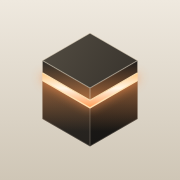
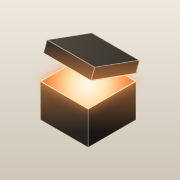
Swing the Magic box lid open and tidy the Studio brand
At 16-22 px the level lid's 1-pixel gap vanished, so the mark read as a
dark cube with a gold band. The floating lid now swings open 20 degrees
on its back edge and the lit inside shows at every size.

- Favicon box fills about 80% of its tile; PNG icons regenerated
- Dark header uses the same graphite with a 1 px non-scaling outline
  instead of the lifted finish that turned bronze
- The logo is a plain image named "Magic CAD", not a link to "#"
- "Magic CAD" is the name in the tab title, logo label and footer
- DESIGN.md records why the lid must stay open

diff --git a/studio-app/src/Brand.tsx b/studio-app/src/Brand.tsx
@@ -1,61 +1,64 @@
 import { useId } from 'react';
 
 // The Magic CAD brand (owner-approved, 7 November 2026). Static copies live in public/brand/.
-// Mark: the Magic box, a graphite box in true isometric (30° edges) whose lid floats just above the
-// base, with warm light spilling out of the gap. The glow is the brand's one non-action use of orange.
+// Mark: the Magic box, a graphite box in true isometric (30° edges). Its lid floats above the base and
+// swings open 20° on its back edge, so the lit inside shows: a box opening, never a cube with a band.
+// The glow is the brand's one non-action use of orange.
 
 export type BrandSurface = 'light' | 'dark';
 
 const BASE_LEFT = 'M29.36 59 64 79v28L29.36 87Z';
 const BASE_RIGHT = 'M64 79l34.64-20v28L64 107Z';
-const GAP = 'M29.36 53.4 64 73.4l34.64-20v5.6L64 79 29.36 59Z';
-const LID_LEFT = 'M29.36 44.6 64 64.6v8.8L29.36 53.4Z';
-const LID_RIGHT = 'M64 64.6l34.64-20v8.8L64 73.4Z';
-const LID_TOP = 'M64 24.6l34.64 20L64 64.6 29.36 44.6Z';
-// Edges: the lid's top silhouette, its front edges, the two edges lit by the gap, and the base outline.
-const RIM_TOP = 'M29.36 44.6 64 24.6l34.64 20';
-const RIM_LID = 'M29.36 44.6 64 64.6l34.64-20M64 64.6v8.8M29.36 44.6v8.8M98.64 44.6v8.8';
-const RIM_GLOW = 'M29.36 53.4 64 73.4l34.64-20M29.36 59 64 79l34.64-20';
+// The base's open top, full of light; the lid hides its back half.
+const OPENING = 'M64 39l34.64 20L64 79 29.36 59Z';
+const LID_LEFT = 'M34.06 28.74 68.7 48.74 66.09 58.51 31.45 38.51Z';
+const LID_RIGHT = 'M68.7 48.74 101.25 43.63 98.64 53.4 66.09 58.51Z';
+const LID_TOP = 'M66.61 23.63 101.25 43.63 68.7 48.74 34.06 28.74Z';
+// Edges: the lid's silhouette, its front edges, the rims lit from inside, and the base outline.
+const RIM_TOP = 'M34.06 28.74 66.61 23.63 101.25 43.63';
+const RIM_LID = 'M34.06 28.74 68.7 48.74 101.25 43.63M68.7 48.74 66.09 58.51M34.06 28.74 31.45 38.51M101.25 43.63 98.64 53.4';
+const RIM_INSIDE = 'M29.36 59 64 39l34.64 20';
+const RIM_GLOW = 'M31.45 38.51 66.09 58.51 98.64 53.4M29.36 59 64 79l34.64-20';
 const RIM_BASE = 'M29.36 59v28l34.64 20 34.64-20V59M64 79v28';
+const GRAPHITE = { top: ['#4f493f', '#3b362f'], left: ['#312d27', '#25221e'], right: ['#221f1c', '#171614'] };
 
-type Finish = { top: [string, string]; left: [string, string]; right: [string, string]; rim: string; rimTop: [number, number]; rimLid: [number, number]; rimBase: [number, number]; glow: number };
-// Light surfaces show the graphite box as approved. Dark surfaces lift the graphite and brighten the
-// rims so the outline still holds against the graphite header. Each rim is [opacity, width].
-const FINISH: Record<BrandSurface, Finish> = {
-  light: { top: ['#4f493f', '#3b362f'], left: ['#312d27', '#25221e'], right: ['#221f1c', '#171614'], rim: '#f3e7d3', rimTop: [.6, .9], rimLid: [.38, .85], rimBase: [.2, .9], glow: .9 },
-  dark: { top: ['#6a6256', '#524b41'], left: ['#433d35', '#36312b'], right: ['#312c27', '#26231f'], rim: '#f6ecdc', rimTop: [.85, 1], rimLid: [.55, .9], rimBase: [.38, .9], glow: .95 },
-};
-
-/** The Magic box. Decorative: the surrounding link or heading carries the accessible name. */
+/** The Magic box. Decorative: the element around it carries the accessible name.
+ *  On dark surfaces a 1 px pearl outline (it does not scale with the mark) keeps the graphite box
+ *  readable without lightening it; on light surfaces the box's own contrast carries it. */
 export function BrandMark({ surface, className }: { surface: BrandSurface; className?: string }) {
   const id = useId().replace(/[^\w-]/g, '');
-  const f = FINISH[surface];
   const url = (part: string) => `url(#${id}-${part})`;
-  return <svg className={className} viewBox="19 21 90 90" data-surface={surface} aria-hidden="true" focusable="false">
+  return <svg className={className} viewBox="20.3 20.3 90 90" data-surface={surface} aria-hidden="true" focusable="false">
     <defs>
-      <linearGradient id={`${id}-top`} x1="40" y1="30" x2="88" y2="60" gradientUnits="userSpaceOnUse"><stop stopColor={f.top[0]}/><stop offset="1" stopColor={f.top[1]}/></linearGradient>
-      <linearGradient id={`${id}-left`} x1="0" y1="46" x2="0" y2="106" gradientUnits="userSpaceOnUse"><stop stopColor={f.left[0]}/><stop offset="1" stopColor={f.left[1]}/></linearGradient>
-      <linearGradient id={`${id}-right`} x1="0" y1="46" x2="0" y2="106" gradientUnits="userSpaceOnUse"><stop stopColor={f.right[0]}/><stop offset="1" stopColor={f.right[1]}/></linearGradient>
-      <linearGradient id={`${id}-gap`} x1="0" y1="53" x2="0" y2="79" gradientUnits="userSpaceOnUse"><stop stopColor="#ffc47c"/><stop offset=".45" stopColor="#fff6e6"/><stop offset="1" stopColor="#ff9a52"/></linearGradient>
-      <linearGradient id={`${id}-lid-spill`} x1="0" y1="73" x2="0" y2="46" gradientUnits="userSpaceOnUse"><stop stopColor="#ff9a52" stopOpacity=".6"/><stop offset="1" stopColor="#ff9a52" stopOpacity="0"/></linearGradient>
+      <linearGradient id={`${id}-top`} x1="40" y1="26" x2="94" y2="48" gradientUnits="userSpaceOnUse"><stop stopColor={GRAPHITE.top[0]}/><stop offset="1" stopColor={GRAPHITE.top[1]}/></linearGradient>
+      <linearGradient id={`${id}-left`} x1="0" y1="30" x2="0" y2="106" gradientUnits="userSpaceOnUse"><stop stopColor={GRAPHITE.left[0]}/><stop offset="1" stopColor={GRAPHITE.left[1]}/></linearGradient>
+      <linearGradient id={`${id}-right`} x1="0" y1="30" x2="0" y2="106" gradientUnits="userSpaceOnUse"><stop stopColor={GRAPHITE.right[0]}/><stop offset="1" stopColor={GRAPHITE.right[1]}/></linearGradient>
+      <radialGradient id={`${id}-light`} cx="64" cy="61" r="30" gradientUnits="userSpaceOnUse"><stop stopColor="#fffaf1"/><stop offset=".45" stopColor="#ffe2b0"/><stop offset=".85" stopColor="#ffa25a"/><stop offset="1" stopColor="#f08a48"/></radialGradient>
+      <linearGradient id={`${id}-lid-spill`} x1="0" y1="58" x2="0" y2="30" gradientUnits="userSpaceOnUse"><stop stopColor="#ff9a52" stopOpacity=".6"/><stop offset="1" stopColor="#ff9a52" stopOpacity="0"/></linearGradient>
       <linearGradient id={`${id}-base-spill`} x1="0" y1="59" x2="0" y2="96" gradientUnits="userSpaceOnUse"><stop stopColor="#ff9a52" stopOpacity=".5"/><stop offset="1" stopColor="#ff9a52" stopOpacity="0"/></linearGradient>
-      <filter id={`${id}-bloom`} x="-.5" y="-1.5" width="2" height="4"><feGaussianBlur stdDeviation="4"/></filter>
+      <filter id={`${id}-bloom`} x="-.5" y="-.5" width="2" height="2"><feGaussianBlur stdDeviation="4"/></filter>
     </defs>
     <path d={BASE_LEFT} fill={url('left')}/>
     <path d={BASE_RIGHT} fill={url('right')}/>
     <path d={BASE_LEFT + BASE_RIGHT} fill={url('base-spill')}/>
-    <path d={GAP} fill="#ff9450" filter={url('bloom')} opacity=".9"/>
-    <path d={GAP} fill={url('gap')}/>
+    <path d={OPENING} fill="#ff9450" filter={url('bloom')} opacity=".9"/>
+    <path d={OPENING} fill={url('light')}/>
+    <path d={RIM_INSIDE} fill="none" stroke="#ffe3b5" strokeOpacity=".9" strokeWidth=".9" strokeLinejoin="round"/>
     <path d={LID_LEFT} fill={url('left')}/>
     <path d={LID_RIGHT} fill={url('right')}/>
     <path d={LID_LEFT + LID_RIGHT} fill={url('lid-spill')}/>
     <path d={LID_TOP} fill={url('top')}/>
-    <g fill="none" strokeLinejoin="round">
-      <path d={RIM_TOP} stroke={f.rim} strokeOpacity={f.rimTop[0]} strokeWidth={f.rimTop[1]}/>
-      <path d={RIM_LID} stroke={f.rim} strokeOpacity={f.rimLid[0]} strokeWidth={f.rimLid[1]}/>
-      <path d={RIM_GLOW} stroke="#ffe3b5" strokeOpacity={f.glow} strokeWidth=".9"/>
-      <path d={RIM_BASE} stroke={f.rim} strokeOpacity={f.rimBase[0]} strokeWidth={f.rimBase[1]}/>
-    </g>
+    {surface === 'dark'
+      ? <g fill="none" stroke="#f6ecdc" strokeWidth="1" strokeLinejoin="round">
+          <path d={RIM_TOP + RIM_BASE} strokeOpacity=".5" vectorEffect="non-scaling-stroke"/>
+          <path d={RIM_LID} strokeOpacity=".3" vectorEffect="non-scaling-stroke"/>
+        </g>
+      : <g fill="none" stroke="#f3e7d3" strokeLinejoin="round">
+          <path d={RIM_TOP} strokeOpacity=".6" strokeWidth=".9"/>
+          <path d={RIM_LID} strokeOpacity=".38" strokeWidth=".85"/>
+          <path d={RIM_BASE} strokeOpacity=".2" strokeWidth=".9"/>
+        </g>}
+    <path d={RIM_GLOW} fill="none" stroke="#ffe3b5" strokeOpacity=".9" strokeWidth=".9" strokeLinejoin="round"/>
   </svg>;
 }
 

diff --git a/studio-app/src/main.tsx b/studio-app/src/main.tsx
@@ -241,7 +241,7 @@ function App() {
   const focusComposerSoon = () => requestAnimationFrame(() => document.getElementById('request')?.focus());
   return <main className={`app desk${dark ? ' dark' : ''}`} style={{ '--column': `${column}px` } as React.CSSProperties}>
     <header className="app-header">
-      <a className="brand" href="#" aria-label="Magic CAD Studio"><BrandMark className="brand-mark" surface={dark ? 'dark' : 'light'}/><Wordmark className="brand-wordmark"/></a>
+      <span className="brand" role="img" aria-label="Magic CAD"><BrandMark className="brand-mark" surface={dark ? 'dark' : 'light'}/><Wordmark className="brand-wordmark"/></span>
       {project ? <details className="project-switch"><summary title={project}>{projectName}</summary><form className="project-open compact" noValidate onSubmit={e => { open(e); (e.currentTarget.closest('details') as HTMLDetailsElement | null)?.removeAttribute('open'); }}><label htmlFor="folder">Project folder</label><div className="open-field"><input id="folder" value={folder} onChange={e => { setFolder(e.target.value); setFolderHint(false); }} placeholder="/path/to/project" aria-describedby={folderHint ? 'folder-hint' : undefined} aria-invalid={folderHint || undefined} autoComplete="off" spellCheck={false}/><button className="open-button" aria-label="Open project" disabled={proposalBusy || opening}>{opening ? 'Opening…' : 'Open'}<Icon name="arrow"/></button></div>{folderHint && <p id="folder-hint" className="field-hint">Enter the folder that holds your project.</p>}</form></details> : <span className="project-name">No project open</span>}
       <nav className="mode-nav" aria-label="Workspace modes">{(['Make', 'Studio', 'Mission Control'] as Mode[]).map(name => <button type="button" key={name} aria-current={mode === name ? 'page' : undefined} onClick={() => setMode(name)}>{name}</button>)}</nav>
       <span className="save-state">{proposalBusy ? 'Working…' : project ? 'Saved locally' : 'Local studio'}</span>
@@ -338,7 +338,7 @@ function App() {
       </aside>
     </section>
     {mode !== 'Studio' && <section className={mode === 'Mission Control' ? 'expert' : 'make-mode'}><h1>{mode}</h1>{!selected ? <p>Open a project in Studio to get started.</p> : <><p className="version-context">{project} · Version {selected.number}</p>{mode === 'Make' ? <p>Make is not available yet. Return to Studio to inspect your project and its versions.</p> : <>{detailsError && <p role="alert">Could not load this version: {detailsError}</p>}{!details && !detailsError && <p role="status">Loading version details…</p>}{details && <><section><h2>Brief card</h2>{details.briefs.length ? details.briefs.map(file => <div key={file.name}><h3>{file.name}</h3><pre>{file.content}</pre></div>) : <p>No brief card was saved with this version.</p>}</section><section><h2>Gate report</h2>{details.report ? details.report.designs.map(design => <div key={design.design}><h3>{design.design}</h3><ul className="gate-list">{design.gates.map(gate => <li key={gate.name}><strong>{gate.name}</strong><span><i aria-hidden="true" className={`mark ${gate.status === 'PASS' ? 'pass' : gate.status === 'FAIL' || gate.status === 'ERROR' ? 'fail' : 'pending'}`} />{gate.status}</span><p>{gate.detail}</p></li>)}</ul><details><summary>Full report</summary><pre>{JSON.stringify(details.report, null, 2)}</pre></details></div>) : <p>No gate report is saved for this version.</p>}</section><section><h2>Design code</h2>{details.designs.map(file => <div key={file.name}><h3>{file.name.split('/').pop()}</h3><pre><code>{file.content}</code></pre></div>)}</section></>}<PartsList project={project}/><Catalogue project={project}/></>}</>}</section>}
-    <footer className="app-status"><span>{project ? 'Engine connected' : 'Ready to open a project'}</span><span>{proposal ? 'Reviewing proposed change' : selected ? `Version ${selected.number} · ${shownModels.length} bodies` : 'Magic CAD Studio'}</span><span>mm · Local workspace</span></footer>
+    <footer className="app-status"><span>{project ? 'Engine connected' : 'Ready to open a project'}</span><span>{proposal ? 'Reviewing proposed change' : selected ? `Version ${selected.number} · ${shownModels.length} bodies` : 'Magic CAD'}</span><span>mm · Local workspace</span></footer>
   </main>;
 }
 createRoot(document.getElementById('root')!).render(<App/>);

diff --git a/studio-app/index.html b/studio-app/index.html
@@ -1,1 +1,1 @@
-<!doctype html><html lang="en"><head><meta charset="UTF-8"><meta name="viewport" content="width=device-width, initial-scale=1"><title>Magic CAD Studio</title><link rel="icon" href="/favicon-32.png" sizes="32x32" type="image/png"><link rel="icon" href="/favicon.svg" type="image/svg+xml"><link rel="apple-touch-icon" href="/apple-touch-icon.png"></head><body><div id="root"></div><script type="module" src="/src/main.tsx"></script></body></html>
+<!doctype html><html lang="en"><head><meta charset="UTF-8"><meta name="viewport" content="width=device-width, initial-scale=1"><title>Magic CAD</title><link rel="icon" href="/favicon-32.png" sizes="32x32" type="image/png"><link rel="icon" href="/favicon.svg" type="image/svg+xml"><link rel="apple-touch-icon" href="/apple-touch-icon.png"></head><body><div id="root"></div><script type="module" src="/src/main.tsx"></script></body></html>

diff --git a/studio-app/tests/studio.spec.ts b/studio-app/tests/studio.spec.ts
@@ -293,7 +293,10 @@ test('Watermelon-adapted command search runs real Studio actions', async ({ page
 
 test('the header shows the Magic box brand and the favicon is served', async ({ page, request }) => {
   await page.goto('/');
-  const brand = page.getByRole('link', {name:'Magic CAD Studio'});
+  await expect(page).toHaveTitle('Magic CAD');
+  // The logo is a plain image named "Magic CAD": nothing to click, and not a Tab stop.
+  const brand = page.getByRole('img', {name:'Magic CAD', exact:true});
+  await expect(page.getByRole('link', {name:/Magic CAD/})).toHaveCount(0);
   const mark = brand.locator('svg.brand-mark'), wordmark = brand.locator('svg.brand-wordmark');
   await expect(mark).toBeVisible();
   await expect(wordmark).toBeVisible();

diff --git a/studio-app/DESIGN.md b/studio-app/DESIGN.md
@@ -106,13 +106,17 @@ as "keep unchanged"). Measurements appear as a dimension on the model; clicking 
 typing a new value writes the request. The composer only shows what is attached (chips).
 
 November 7 brand (owner): the mark is the Magic box, a graphite box in true isometric (30° edges)
-whose lid floats just above the base, with warm light spilling out of the gap: something magic
-inside, and a nod to the enclosures the product makes. The wordmark is MAGIC CAD in wide capitals,
+whose lid floats above the base and swings open 20° on its back edge, so the lit inside shows:
+something magic inside, and a nod to the enclosures the product makes. The open lid is deliberate:
+with a level lid the mark shrank to a dark cube with a gold band at 16 to 22 px, which reads as the
+Kaaba; never return to a closed or level lid. The wordmark is MAGIC CAD in wide capitals,
 Archivo at width 125 and weight 700 with +0.03em tracking (SIL OFL 1.1), drawn as outlines in
 src/Brand.tsx so the app loads no font. Header lockup: 22 px mark, 8 px gap, 9.5 px wordmark in the
-text colour; on phones the wordmark drops and the mark stays. Light surfaces use the graphite finish;
-dark surfaces use a lifted finish with brighter rims so the outline holds on the graphite header.
-The app icon and favicon sit on a warm stone tile (#efe9df to #cfc6b6); the favicon widens the gap
-and drops the bloom so the light survives 16 px. The glow is the one deliberate non-action use of
-orange: it belongs to the mark only and never appears on controls. The isometric cube glyph is a
-camera-view icon again, not the logo. Sources: public/brand/*.svg, public/favicon.svg.
+text colour; on phones the wordmark drops and the mark stays. The logo is a plain image named
+"Magic CAD" (role img), not a link, and the product name is "Magic CAD" everywhere (Studio is a
+mode). Both surfaces use the same graphite; on dark surfaces a 1 px pearl outline that does not
+scale keeps the box readable instead of lightening it. The app icon and favicon sit on a warm stone
+tile (#efe9df to #cfc6b6); the favicon box fills about 80% of the tile in flat colours with no bloom
+so it reads at 16 px. The glow is the one deliberate non-action use of orange: it belongs to the
+mark only and never appears on controls. The isometric cube glyph is a camera-view icon again, not
+the logo. Sources: public/brand/*.svg, public/favicon.svg.
